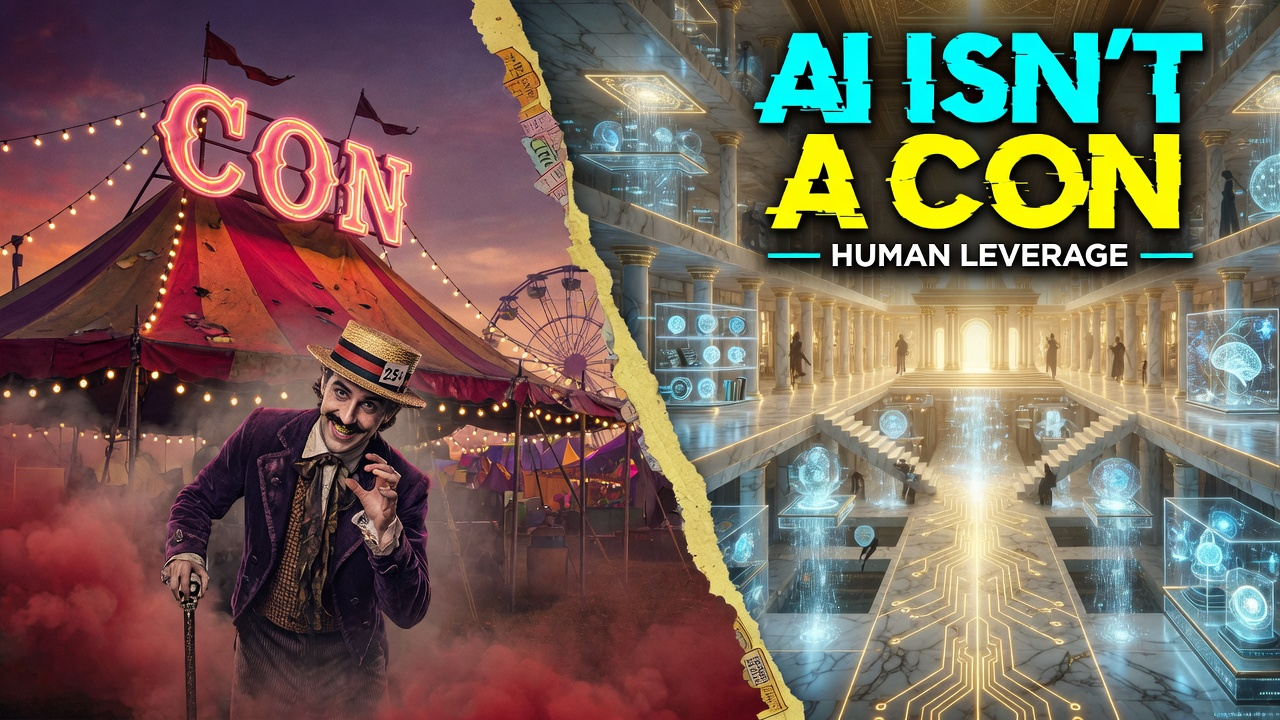
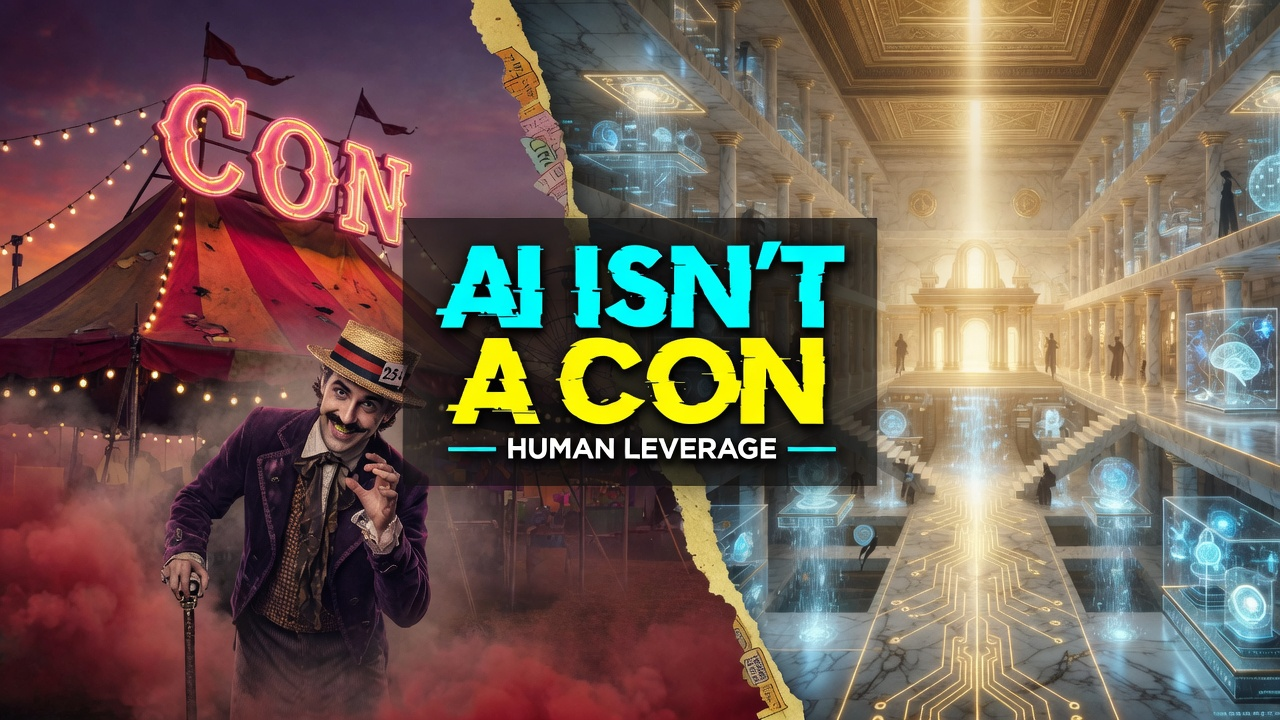
Center Short thumbnail title for 9:16 crop on OGB69NVn8ZU.
Move “AI ISN'T A CON / HUMAN LEVERAGE” into the middle third so YouTube
Shorts center-crop still shows the type. Re-upload to the live video and
note the Shorts layout rule on thumbnail-tester.html.

diff --git a/thumbnail-tester.html b/thumbnail-tester.html
@@ -1,0 +1,264 @@
+<!DOCTYPE html>
+<html lang="en">
+<head>
+  <meta charset="UTF-8">
+  <meta name="viewport" content="width=device-width, initial-scale=1.0">
+  <title>Thumbnail Tester — @RifatErdemSahin</title>
+  <link rel="preconnect" href="https://fonts.googleapis.com">
+  <link rel="preconnect" href="https://fonts.gstatic.com" crossorigin>
+  <link href="https://fonts.googleapis.com/css2?family=Inter:wght@400;500;600;700;800&family=Roboto:wght@400;500;700&display=swap" rel="stylesheet">
+  <link rel="stylesheet" href="nav.css">
+  <style>
+    :root {
+      --bg-primary: #090d13;
+      --bg-secondary: #121820;
+      --bg-card: #19222c;
+      --border: #283545;
+      --text-main: #f1f5f9;
+      --text-muted: #94a3b8;
+      --accent-blue: #38bdf8;
+      --yt-bg: #0f0f0f;
+      --yt-card: #212121;
+      --yt-text: #f1f1f1;
+      --yt-muted: #aaa;
+    }
+    * { box-sizing: border-box; margin: 0; padding: 0; }
+    body {
+      font-family: Inter, -apple-system, sans-serif;
+      background: var(--bg-primary);
+      color: var(--text-main);
+      padding-top: 72px;
+      line-height: 1.5;
+    }
+    .top-nav {
+      position: fixed; top: 0; left: 0; right: 0; height: 64px;
+      background: rgba(18, 24, 32, 0.92);
+      backdrop-filter: blur(12px);
+      border-bottom: 1px solid var(--border);
+      display: flex; align-items: center; justify-content: space-between;
+      padding: 0 28px; z-index: 1000;
+    }
+    .nav-brand { display: flex; align-items: center; gap: 12px; text-decoration: none; color: var(--text-main); }
+    .nav-logo {
+      width: 32px; height: 32px;
+      background: linear-gradient(135deg, #ff0033, #cc0000);
+      border-radius: 8px; display: flex; align-items: center; justify-content: center;
+      font-weight: 800; color: white;
+    }
+    .nav-title { font-size: 16px; font-weight: 700; }
+    .nav-link {
+      color: var(--text-muted); text-decoration: none; font-size: 13px; font-weight: 500;
+      padding: 6px 12px; border-radius: 6px;
+    }
+    .container { max-width: 1280px; margin: 0 auto; padding: 28px 24px 80px; }
+    h1 { font-size: 28px; letter-spacing: -0.03em; margin-bottom: 6px; }
+    .sub { color: var(--text-muted); margin-bottom: 24px; }
+    .toolbar {
+      display: flex; flex-wrap: wrap; gap: 10px; align-items: center;
+      background: var(--bg-card); border: 1px solid var(--border);
+      border-radius: 12px; padding: 14px 16px; margin-bottom: 28px;
+    }
+    .toolbar label { font-size: 12px; color: var(--text-muted); font-weight: 600; }
+    .toolbar select, .toolbar input[type="text"] {
+      background: #0d131a; color: var(--text-main); border: 1px solid var(--border);
+      border-radius: 8px; padding: 8px 10px; font-size: 13px; min-width: 280px;
+    }
+    .grid { display: grid; grid-template-columns: 1fr 1fr; gap: 24px; }
+    @media (max-width: 900px) { .grid { grid-template-columns: 1fr; } }
+    .panel {
+      background: var(--bg-card); border: 1px solid var(--border);
+      border-radius: 14px; padding: 16px 16px 20px;
+    }
+    .panel h2 { font-size: 13px; text-transform: uppercase; letter-spacing: 0.08em; color: var(--text-muted); margin-bottom: 14px; }
+    .yt { background: var(--yt-bg); border-radius: 12px; padding: 16px; font-family: Roboto, Inter, sans-serif; }
+    .home-card { width: 360px; }
+    .home-thumb {
+      width: 360px; height: 202px; border-radius: 12px; overflow: hidden;
+      background: #000; position: relative;
+    }
+    .home-thumb img { width: 100%; height: 100%; object-fit: cover; display: block; }
+    .duration {
+      position: absolute; right: 8px; bottom: 8px; background: rgba(0,0,0,.8);
+      color: #fff; font-size: 12px; font-weight: 600; padding: 2px 5px; border-radius: 4px;
+    }
+    .meta { display: flex; gap: 12px; margin-top: 12px; }
+    .avatar { width: 36px; height: 36px; border-radius: 50%; background: #c00; flex-shrink: 0; }
+    .vtitle { color: var(--yt-text); font-size: 16px; font-weight: 500; line-height: 1.3; }
+    .vsub { color: var(--yt-muted); font-size: 13px; margin-top: 4px; }
+    .suggest { display: flex; gap: 8px; width: 402px; }
+    .suggest-thumb { width: 168px; height: 94px; border-radius: 8px; overflow: hidden; flex-shrink: 0; background: #000; }
+    .suggest-thumb img { width: 100%; height: 100%; object-fit: cover; display: block; }
+    .suggest .vtitle { font-size: 14px; }
+    .search-row { display: flex; gap: 16px; }
+    .search-thumb { width: 360px; height: 202px; border-radius: 12px; overflow: hidden; background: #000; flex-shrink: 0; }
+    .search-thumb img { width: 100%; height: 100%; object-fit: cover; display: block; }
+    .shorts-wrap { display: flex; gap: 12px; align-items: flex-end; }
+    .short {
+      width: 180px; height: 320px; border-radius: 14px; overflow: hidden;
+      background: #000; position: relative;
+    }
+    .short img { width: 100%; height: 100%; object-fit: cover; object-position: center; display: block; }
+    .short .cap {
+      position: absolute; left: 10px; right: 10px; bottom: 12px;
+      color: #fff; font-size: 13px; font-weight: 600; text-shadow: 0 1px 4px #000;
+    }
+    .full img { width: 100%; max-width: 1280px; height: auto; border-radius: 8px; display: block; border: 1px solid var(--border); }
+    .span-2 { grid-column: 1 / -1; }
+    .sizes { color: var(--text-muted); font-size: 12px; margin-top: 8px; font-variant-numeric: tabular-nums; }
+  </style>
+</head>
+<body>
+  <nav class="top-nav">
+    <a href="index.html" class="nav-brand">
+      <div class="nav-logo">▶</div>
+      <div class="nav-title">Thumbnail Tester</div>
+    </a>
+    <ul class="nav-links">
+      <li class="nav-group" data-group="library">
+        <button type="button" class="nav-link nav-group-toggle">Library <span class="nav-caret">▾</span></button>
+        <ul class="nav-dropdown">
+          <li><a href="thumbnails.html" class="nav-dropdown-link" data-page="thumbnails.html">Thumbnails</a></li>
+          <li><a href="thumbnail-tester.html" class="nav-dropdown-link" data-page="thumbnail-tester.html">Thumbnail Tester</a></li>
+          <li><a href="catalog.html" class="nav-dropdown-link" data-page="catalog.html">Catalog</a></li>
+        </ul>
+      </li>
+    </ul>
+    <a href="https://www.youtube.com/shorts/OGB69NVn8ZU" target="_blank" rel="noopener" class="nav-link">Open Short ↗</a>
+  </nav>
+
+  <div class="container">
+    <h1>Thumbnail tester</h1>
+    <p class="sub">Preview how a 16:9 custom thumbnail reads in YouTube home, search, suggested, and Shorts crops. <strong>Rule for Shorts:</strong> keep title type in the center third — a 9:16 crop clips the left/right edges.</p>
+
+    <div class="toolbar">
+      <label for="pick">Asset</label>
+      <select id="pick">
+        <option value="thumbnails/thumbnail_OGB69NVn8ZU.jpg" selected>OGB69NVn8ZU — AI isn't a con</option>
+        <option value="thumbnails/thumbnail_27jXA2V2Zio.jpg">27jXA2V2Zio — AI isn't a bubble</option>
+        <option value="thumbnails/thumbnail_HUTlnlw3h8o.jpg">HUTlnlw3h8o</option>
+        <option value="thumbnails/thumbnail_l7bc8KTOyMo.jpg">l7bc8KTOyMo</option>
+        <option value="thumbnails/frame_OGB69NVn8ZU.jpg">OGB69NVn8ZU first frame</option>
+      </select>
+      <label for="file">or local file</label>
+      <input type="file" id="file" accept="image/*">
+    </div>
+
+    <div class="grid">
+      <div class="panel">
+        <h2>Home feed card — 360×202</h2>
+        <div class="yt">
+          <div class="home-card">
+            <div class="home-thumb">
+              <img class="thumb-src" alt="thumbnail">
+              <span class="duration">1:03</span>
+            </div>
+            <div class="meta">
+              <div class="avatar"></div>
+              <div>
+                <div class="vtitle">They Called AI a Con. I Walked In Anyway.</div>
+                <div class="vsub">Rifat Erdem Sahin · Unlisted Short</div>
+              </div>
+            </div>
+          </div>
+        </div>
+      </div>
+
+      <div class="panel">
+        <h2>Suggested sidebar — 168×94</h2>
+        <div class="yt">
+          <div class="suggest">
+            <div class="suggest-thumb"><img class="thumb-src" alt="thumbnail"></div>
+            <div>
+              <div class="vtitle">They Called AI a Con. I Walked In Anyway.</div>
+              <div class="vsub">Rifat Erdem Sahin<br>Short · 1:03</div>
+            </div>
+          </div>
+        </div>
+        <p class="sizes">Smallest real click surface — text must still read.</p>
+      </div>
+
+      <div class="panel span-2">
+        <h2>Search result — 360×202</h2>
+        <div class="yt">
+          <div class="search-row">
+            <div class="search-thumb"><img class="thumb-src" alt="thumbnail"></div>
+            <div>
+              <div class="vtitle" style="font-size:18px">They Called AI a Con. I Walked In Anyway.</div>
+              <div class="vsub">Rifat Erdem Sahin · 1:03</div>
+              <div class="vsub" style="margin-top:10px">Someone called this an AI con. I walked in anyway. Abundance is a platform — and yes, the hype can be dishonest.</div>
+            </div>
+          </div>
+        </div>
+      </div>
+
+      <div class="panel">
+        <h2>Shorts crop — 9:16 center</h2>
+        <div class="yt">
+          <div class="shorts-wrap">
+            <div class="short">
+              <img class="thumb-src" alt="thumbnail">
+              <div class="cap">They Called AI a Con…</div>
+            </div>
+          </div>
+        </div>
+        <p class="sizes">YouTube Shorts often center-crops landscape thumbs. Edges (title plate) may clip.</p>
+      </div>
+
+      <div class="panel">
+        <h2>Mobile feed — 390×219</h2>
+        <div class="yt" style="max-width: 422px;">
+          <div class="home-thumb" style="width:390px;height:219px;max-width:100%">
+            <img class="thumb-src" alt="thumbnail">
+            <span class="duration">1:03</span>
+          </div>
+          <div class="meta">
+            <div class="avatar"></div>
+            <div>
+              <div class="vtitle">They Called AI a Con. I Walked In Anyway.</div>
+              <div class="vsub">Rifat Erdem Sahin</div>
+            </div>
+          </div>
+        </div>
+      </div>
+
+      <div class="panel span-2">
+        <h2>Full asset (native)</h2>
+        <div class="full"><img class="thumb-src" alt="full thumbnail"></div>
+        <p class="sizes" id="dims"></p>
+      </div>
+    </div>
+  </div>
+
+  <script src="nav.js"></script>
+  <script>
+    const DEFAULT = 'thumbnails/thumbnail_OGB69NVn8ZU.jpg';
+    const params = new URLSearchParams(location.search);
+    const pick = document.getElementById('pick');
+    const file = document.getElementById('file');
+    const imgs = document.querySelectorAll('.thumb-src');
+    const dims = document.getElementById('dims');
+
+    function setSrc(src) {
+      imgs.forEach(function (img) { img.src = src; });
+      const probe = new Image();
+      probe.onload = function () {
+        dims.textContent = probe.naturalWidth + ' × ' + probe.naturalHeight + ' · ' + src;
+      };
+      probe.src = src;
+    }
+
+    const initial = params.get('src') || DEFAULT;
+    if ([...pick.options].some(function (o) { return o.value === initial; })) {
+      pick.value = initial;
+    }
+    setSrc(initial);
+
+    pick.addEventListener('change', function () { setSrc(pick.value); });
+    file.addEventListener('change', function () {
+      const f = file.files && file.files[0];
+      if (!f) return;
+      setSrc(URL.createObjectURL(f));
+    });
+  </script>
+</body>
+</html>
